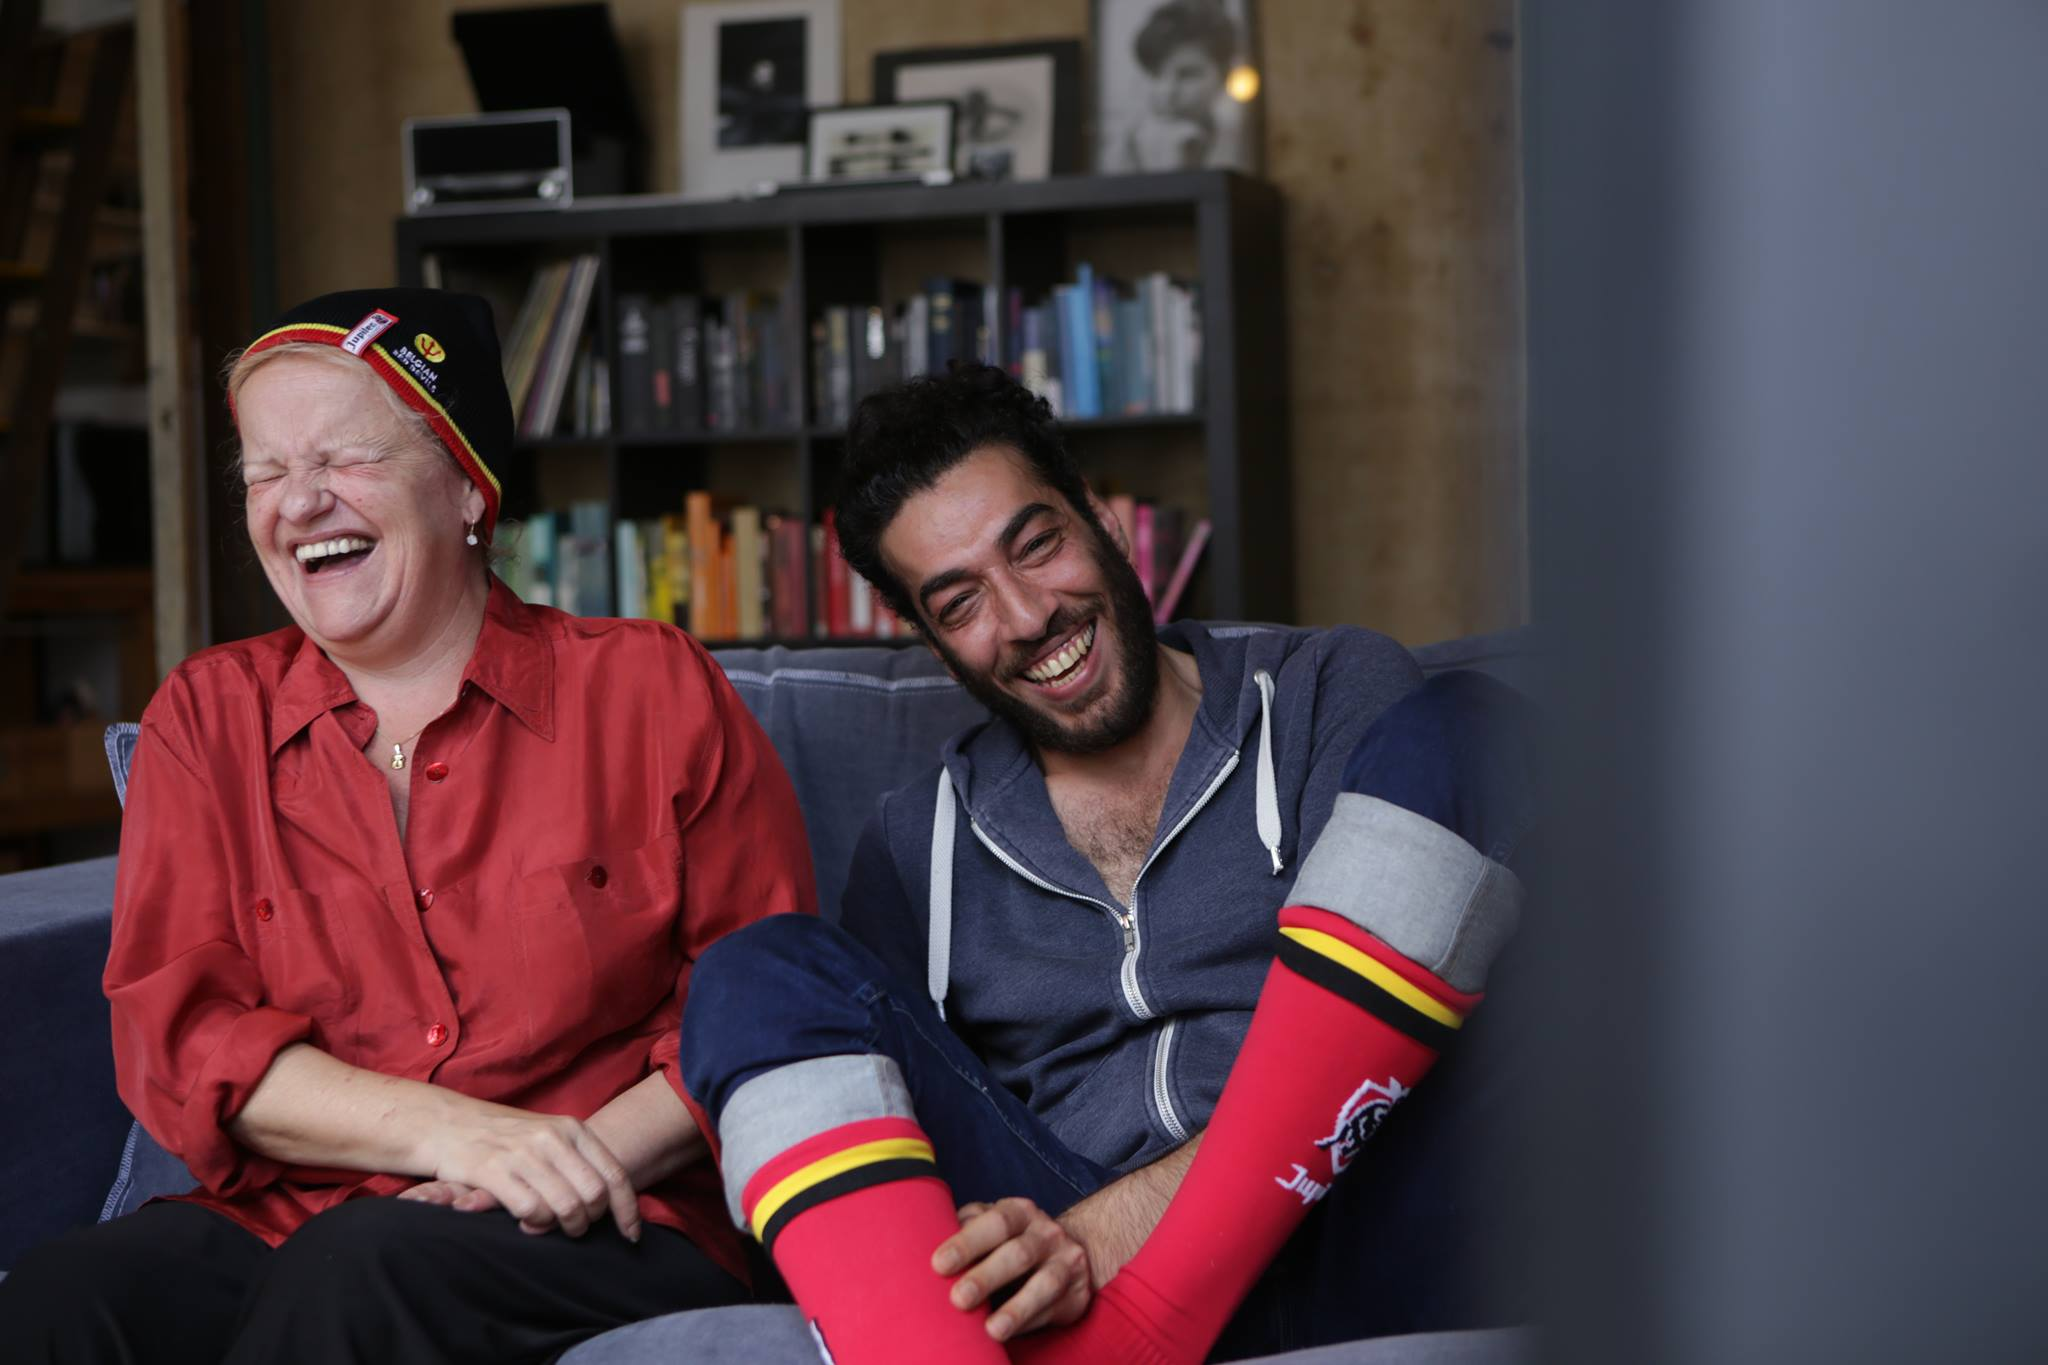
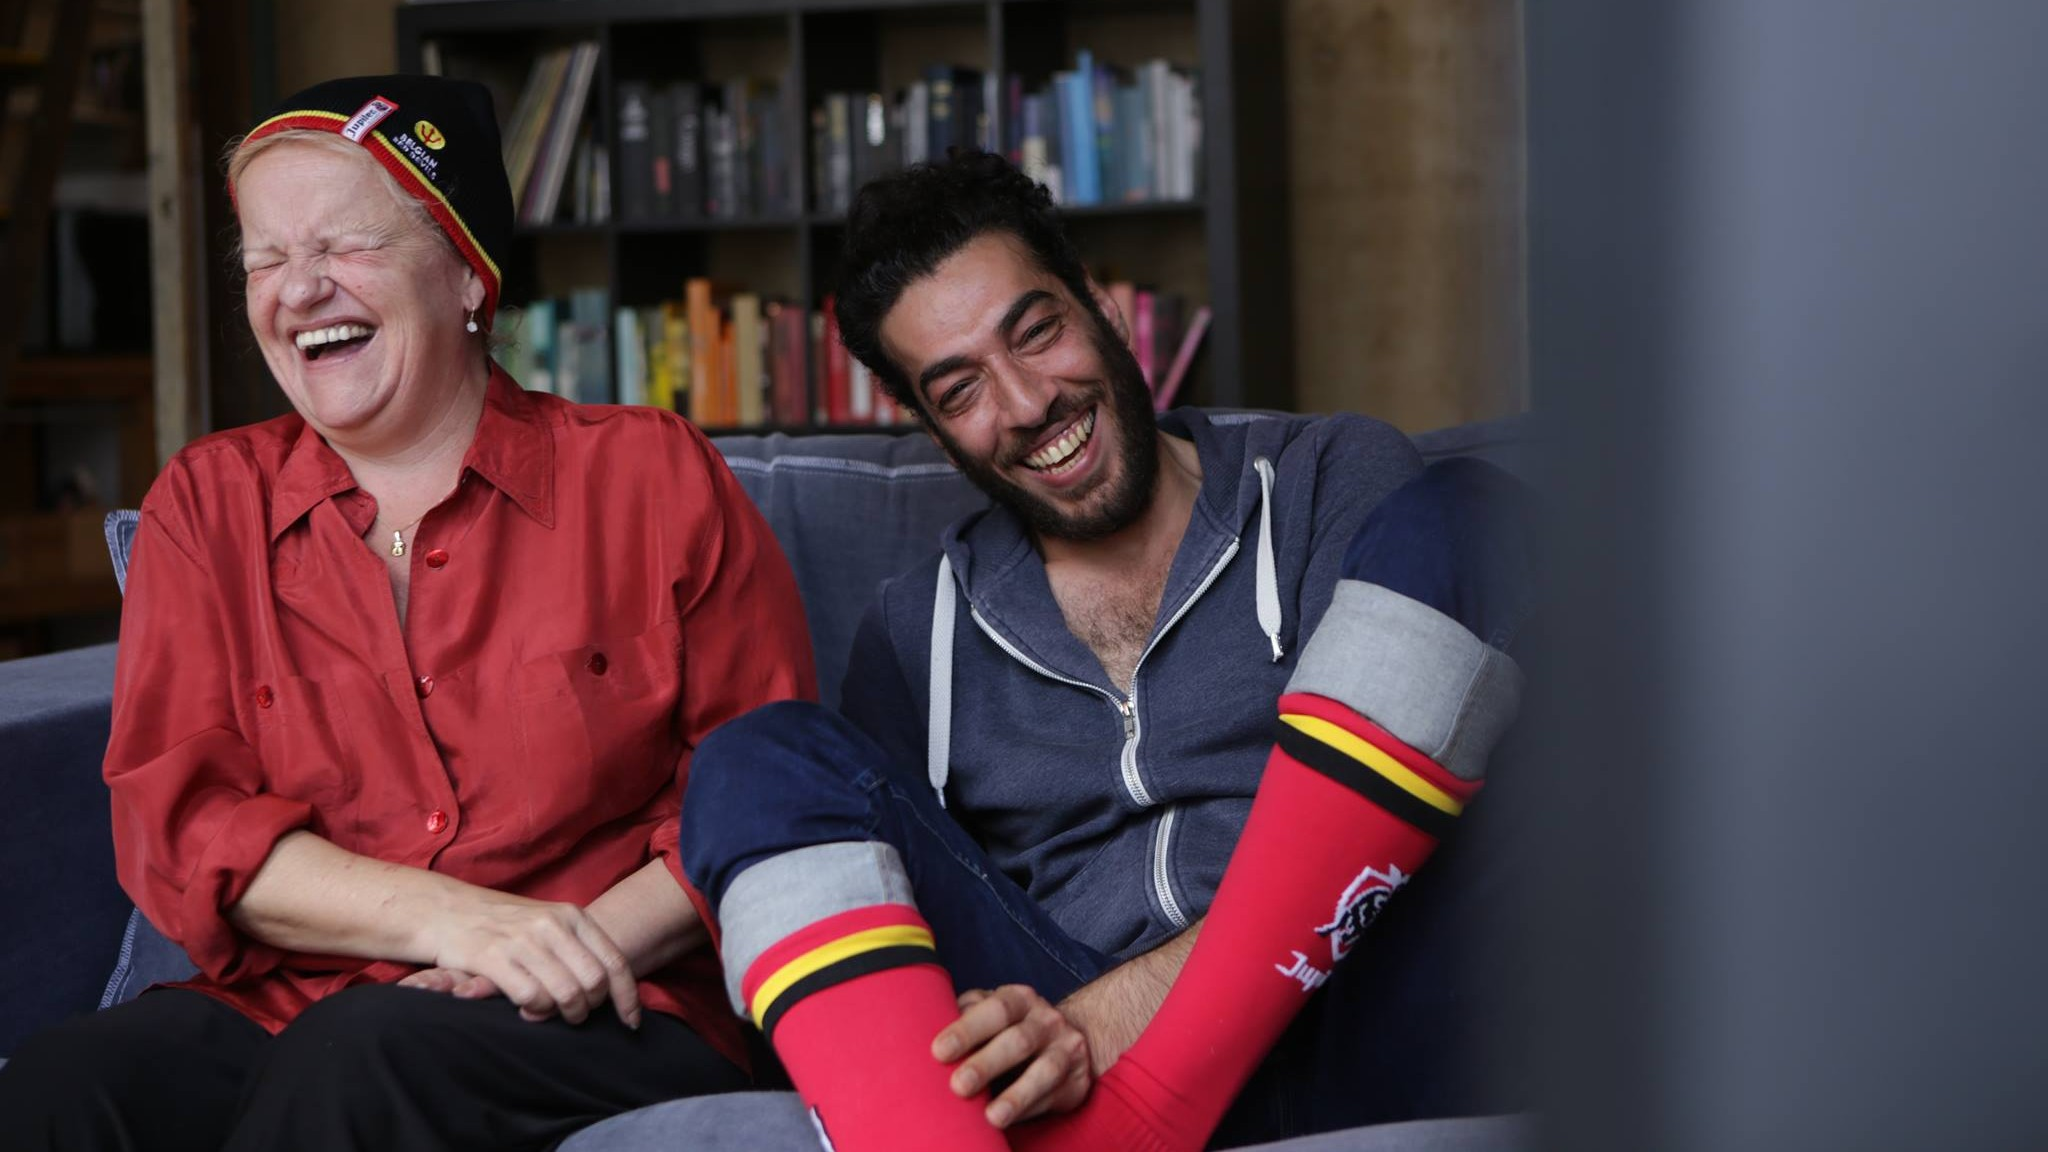
Mask Homepage

diff --git a/index.html b/index.html
@@ -29,7 +29,7 @@
                 <path d="M456 647L270.18 0H-61V647H456Z" fill="#F7F4D5"/>
                 </svg>
             </div>
-            <img src="assets/placeholder.png" style="width:100%">
+            <img src="assets/samen-gelukkig_2.jpg" style="width:100%">
             <div class="slideshow-text">Zinvol & Solidair</div>
         </div>
 
@@ -80,7 +80,7 @@
     <div class="text-homepage">
         <div class="bg-ellipse"></div>
 
-        <img class="homepage-img" src="assets/2_uitgeknipt.png">
+        <img class="homepage-img" src="assets/2_uitgeknipt.png" width= "718.048px" height="368.54px" aspect-ratio="110/63">
 
         <div class="text-content">
             <h1>Wie zijn wij?</h1>

diff --git a/style/global.css b/style/global.css
@@ -24,9 +24,10 @@ body {
 }
 
 .homepage-img {
-    width: 20%;
     border-radius: 15px;
     z-index: 1;
+    mask-image: url("assets/ellipse-7.svg");
+    mask-repeat: no-repeat
 }
 
 .text-content {
